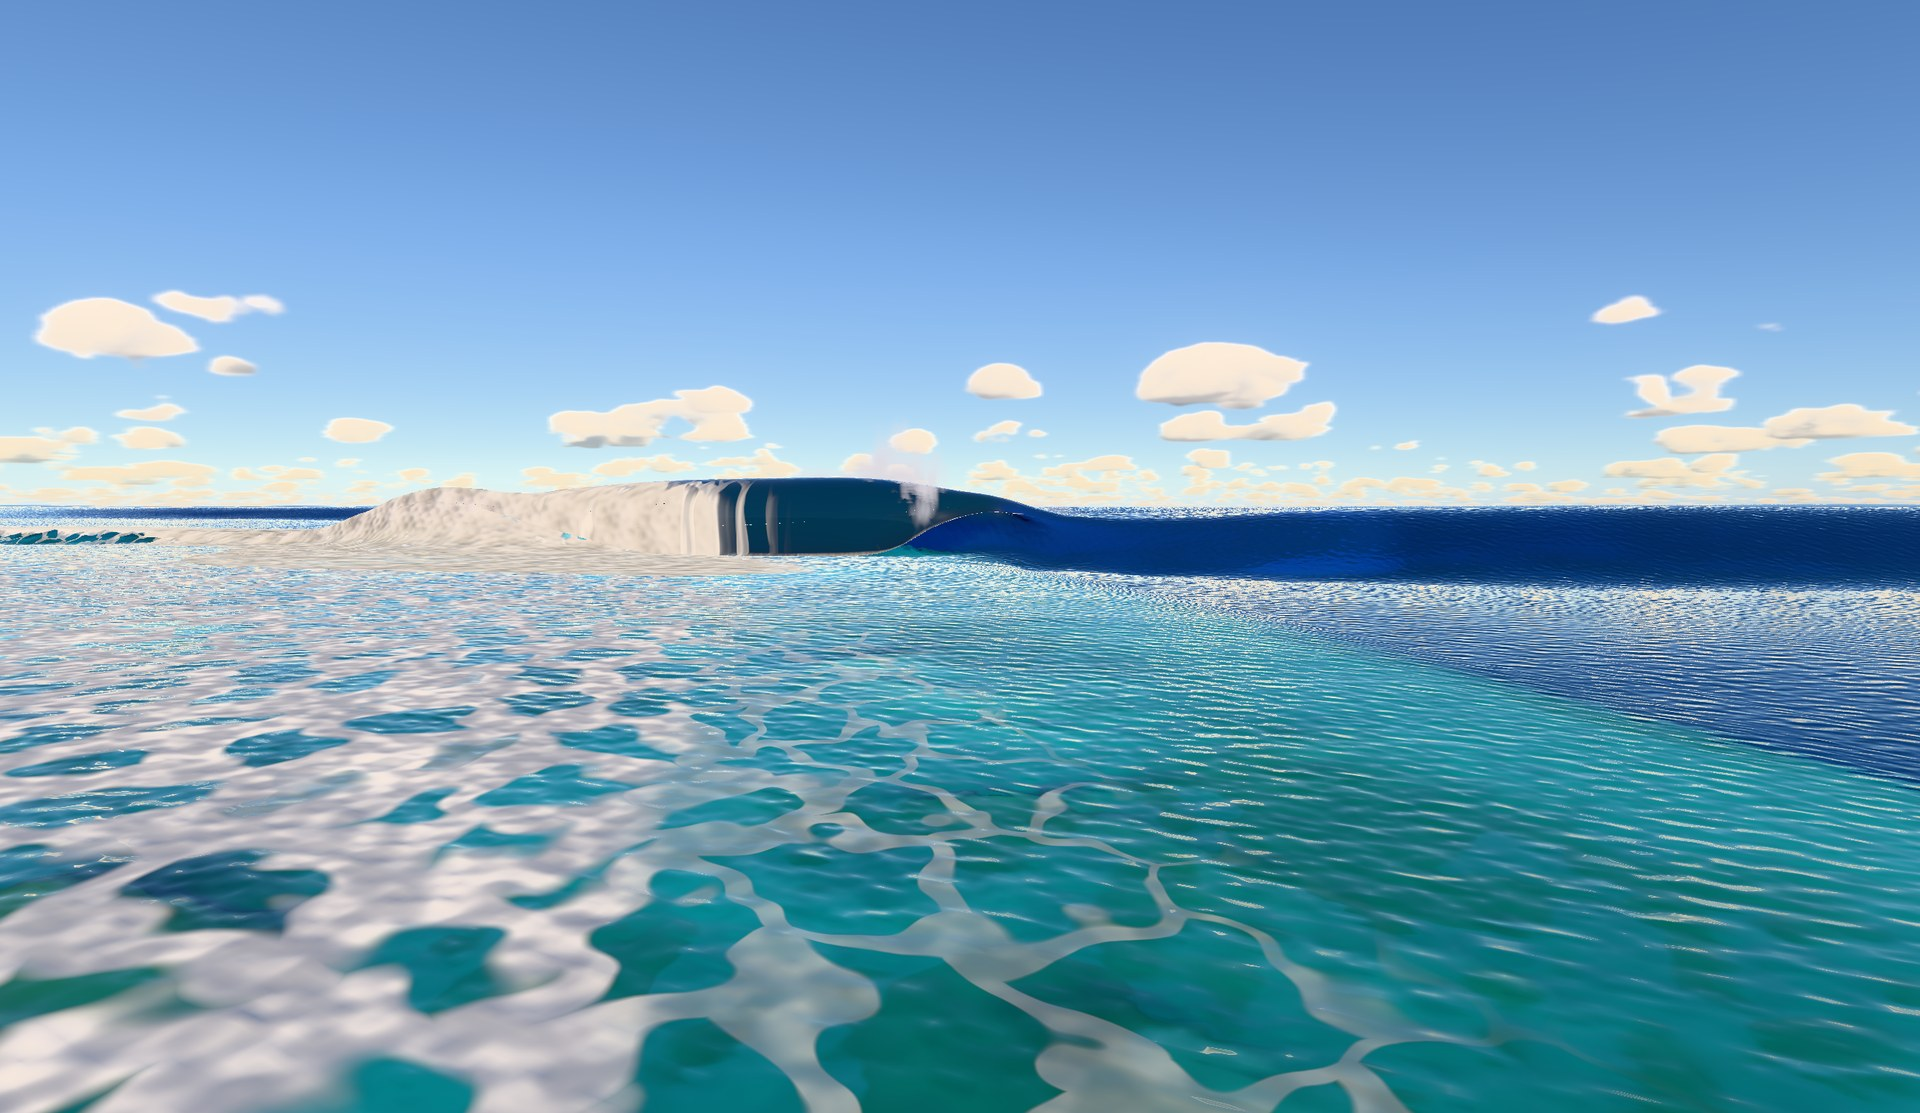
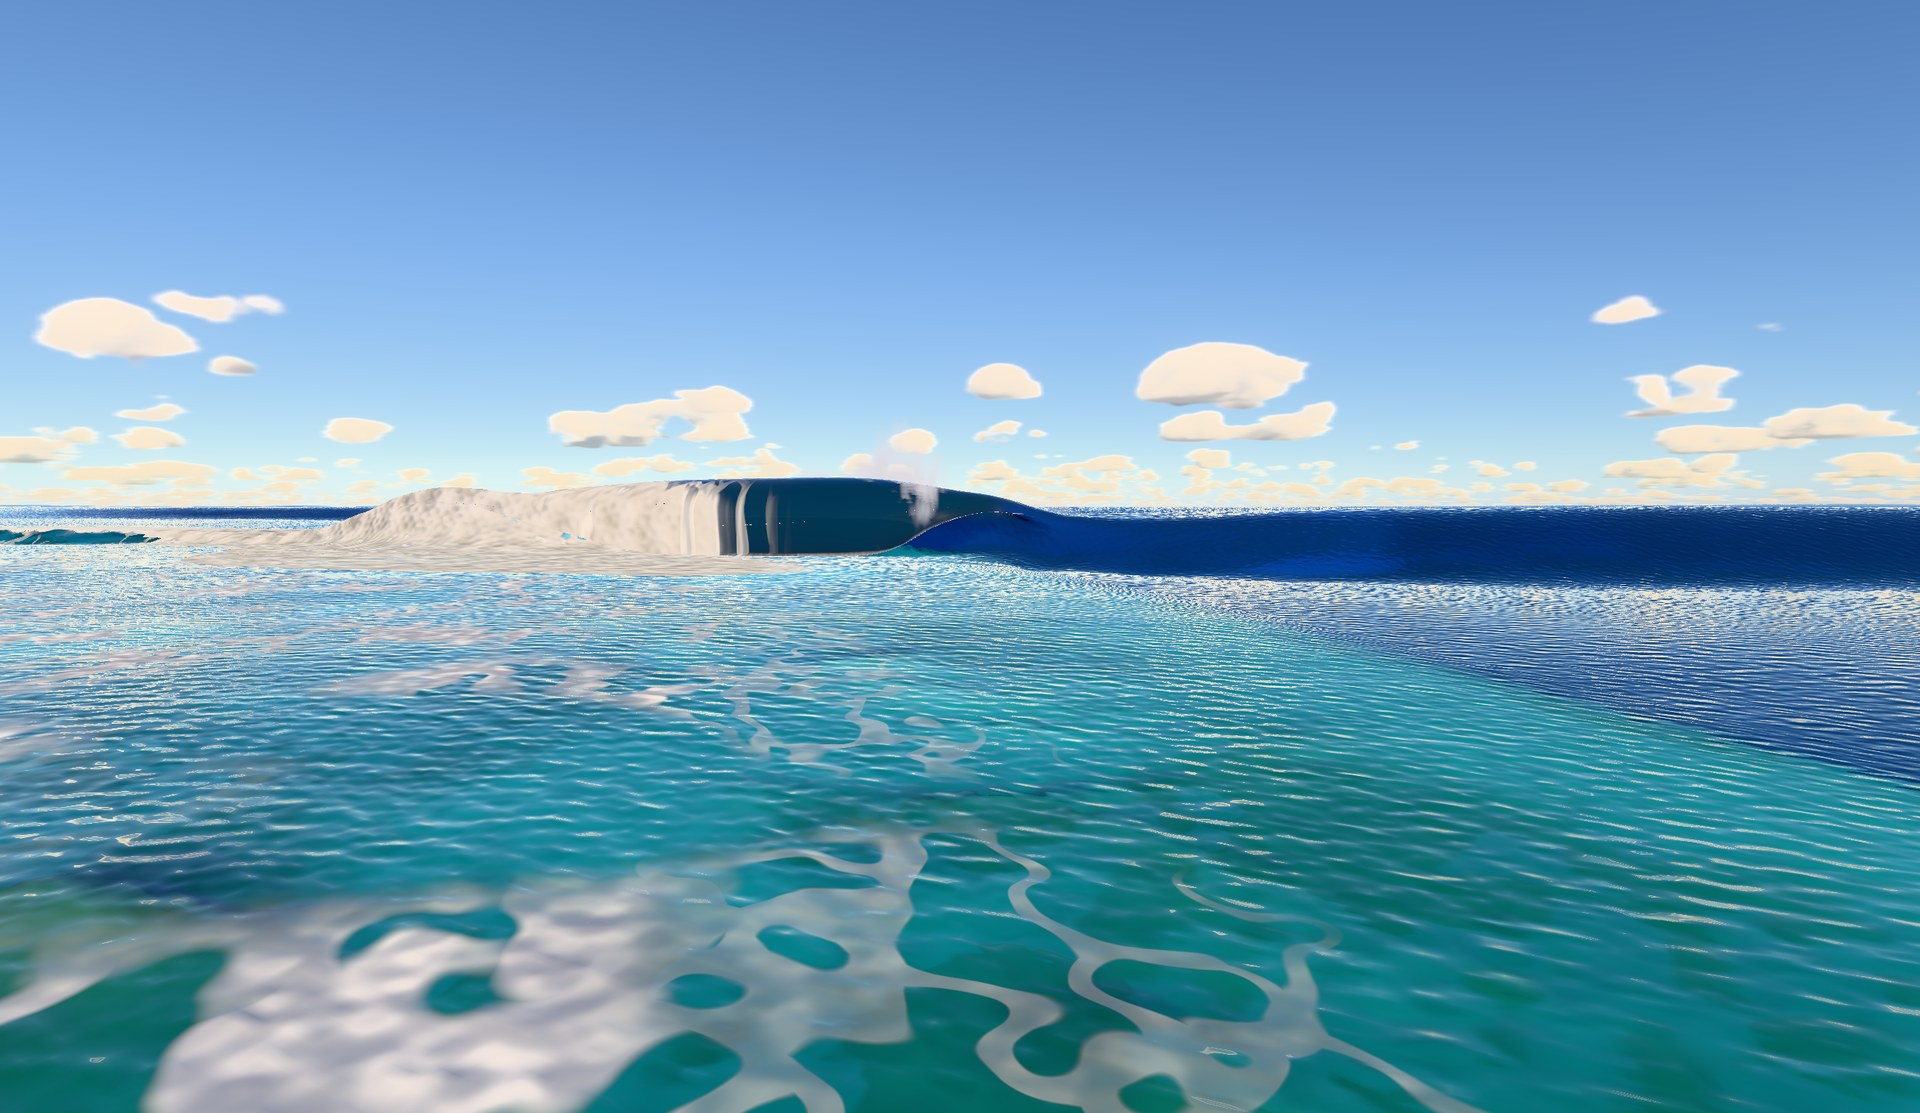
fix(foam): L3 the lace tears into streaks (stretched 2.5:1 along the drift, jittered, half the rims torn out) where it is the breaking foam's; frame-gate stall flag; acceptance moments on the final code

Changed region(s): [[0.0, 0.4582, 0.7812, 1.0]]

diff --git a/src/ocean/OceanSurface.ts b/src/ocean/OceanSurface.ts
@@ -38,8 +38,11 @@ export const EARTH_RADIUS_M = 6_371_000;
 export const SET_FOAM_MAX_COVER = 0.95;
 /** The lace's cells, along travel and across it (m). */
 export const FOAM_CELL_M: readonly [number, number] = [2.8, 2.0];
+/** The lace stage (L3): cells LACE_STRETCH : 1 along the drift axis, LACE_JITTER cells more warp, and a ~LACE_MASK_M noise
+ * that tears out about half the rims, so old foam reads as streaks and torn patches, not a honeycomb. */
+export const LACE_STRETCH = 2.5, LACE_JITTER = 0.4, LACE_MASK_M = 6;
 
-export function setFoamPattern(foam: N, frame: N, time: N, thin: N = float(0.0)): N {
+export function setFoamPattern(foam: N, frame: N, time: N, thin: N = float(0.0), tear: N = float(0.0)): N {
   return Fn(() => {
     const out = vec2(0.0, 1.07).toVar();
     If(foam.greaterThan(1e-3), () => {
@@ -48,14 +51,25 @@ export function setFoamPattern(foam: N, frame: N, time: N, thin: N = float(0.0))
       const n3 = mx_noise_float(vec3(frame.x.mul(0.9), frame.y.mul(0.9).add(41.3), time.mul(0.3)));
       // The variation fades out toward full weight: fresh whitewater is solid, only thinning foam gathers in patches.
       const w = saturate(saturate(foam).mul(n1.mul(0.4).mul(float(1.0).sub(saturate(foam))).add(1.0)));
-      const q = vec2(frame.x.div(FOAM_CELL_M[0]), frame.y.div(FOAM_CELL_M[1])).add(vec2(n2, n3).mul(0.35));
+      // The lace stage (L3, from a drone the rims read as a CG honeycomb; photo 4's leftovers are streaks and torn patches):
+      // below the solid weight the cells stretch to LACE_STRETCH : 1 along the drift axis, take another LACE_JITTER of a
+      // cell of warp, and a slow ~LACE_MASK_M noise tears out about half the rims, × `tear`. The solid stage is untouched.
+      // × `tear`: the breaking foam's share of the weight (the sheet passes it), so the shore's swash and surf foam keep
+      // their lace (calm identity).
+      const laceness = float(1.0).sub(smoothstep(0.5, 0.75, w)).mul(float(tear)).toVar();
+      const n5 = mx_noise_float(vec3(frame.x.mul(0.5).add(7.1), frame.y.mul(0.5), time.mul(0.1)));
+      const n6 = mx_noise_float(vec3(frame.x.mul(0.5), frame.y.mul(0.5).add(13.9), time.mul(0.1)));
+      const cellX = mix(float(FOAM_CELL_M[0]), float(FOAM_CELL_M[1] * LACE_STRETCH), laceness);
+      const q = vec2(frame.x.div(cellX), frame.y.div(FOAM_CELL_M[1])).add(vec2(n2, n3).mul(0.35)).add(vec2(n5, n6).mul(laceness.mul(LACE_JITTER)));
       // F1, F2 (squared, in cells): the rims are where the two nearest cell centres are equally far.
       const f = sqrt(mx_worley_noise_vec2(q, 0.9));
       const edge = f.y.sub(f.x);
       // Solid from a weight of ~0.75 (the rims' band covers the widest cells), lace below, threads at the thinnest.
       // Aged lace (`thin` 1) is threads, fresh is clumps: the rims narrow to AGED_LACE_WIDTH.
       const width = w.pow(1.3).mul(1.2).add(0.18).mul(float(1.0).sub(float(thin).mul(1 - AGED_LACE_WIDTH)));
-      const lace = float(1.0).sub(smoothstep(width.mul(0.5), width, edge));
+      const n4 = mx_noise_float(vec3(frame.x.div(LACE_MASK_M), frame.y.div(LACE_MASK_M), time.mul(0.05)));
+      const torn = mix(float(1.0), smoothstep(-0.1, 0.3, n4), laceness);
+      const lace = float(1.0).sub(smoothstep(width.mul(0.5), width, edge)).mul(torn);
       const cover = min(lace.mul(SET_FOAM_MAX_COVER).mul(saturate(foam.mul(4.0))), mix(float(SET_FOAM_MAX_COVER), float(AGED_LACE_COVER), float(thin)));
       // The clumps: bright over each cell's middle, and a finer mottle of bubble clusters (~0.5 m) over them.
       const fine = mx_noise_float(vec3(frame.x.mul(2.2).add(5.3), frame.y.mul(2.2), time.mul(0.6)));
@@ -265,7 +279,9 @@ export class OceanSurface {
     const aged = foamOverlay?.age && options.foamMap?.clearTimeS
       ? smoothstep(options.foamMap.clearTimeS, options.foamMap.clearTimeS + 5, foamOverlay.age).mul(foamOverlay.inside).mul(saturate(foamOverlay.density.div(max(foamWeight, 1e-3))))
       : float(0.0);
-    const setFoamLook = setFoamPattern(foamWeight, waterFoamFrame(vBaseXZ, axis), model.sim.time, aged);
+    // The lace tears into streaks only where it is the breaking foam's (L3): the shore's foam keeps its look.
+    const tear = saturate(breakFoam.div(max(foamWeight, 1e-3)));
+    const setFoamLook = setFoamPattern(foamWeight, waterFoamFrame(vBaseXZ, axis), model.sim.time, aged, tear);
 
     material.colorNode = shadeWater(
       { normal, viewDir, distance, foam: max(fft.foam, setFoamLook.x), foamShade: setFoamLook.y, breakFoam: min(setFoamLook.x, breakFoam),
